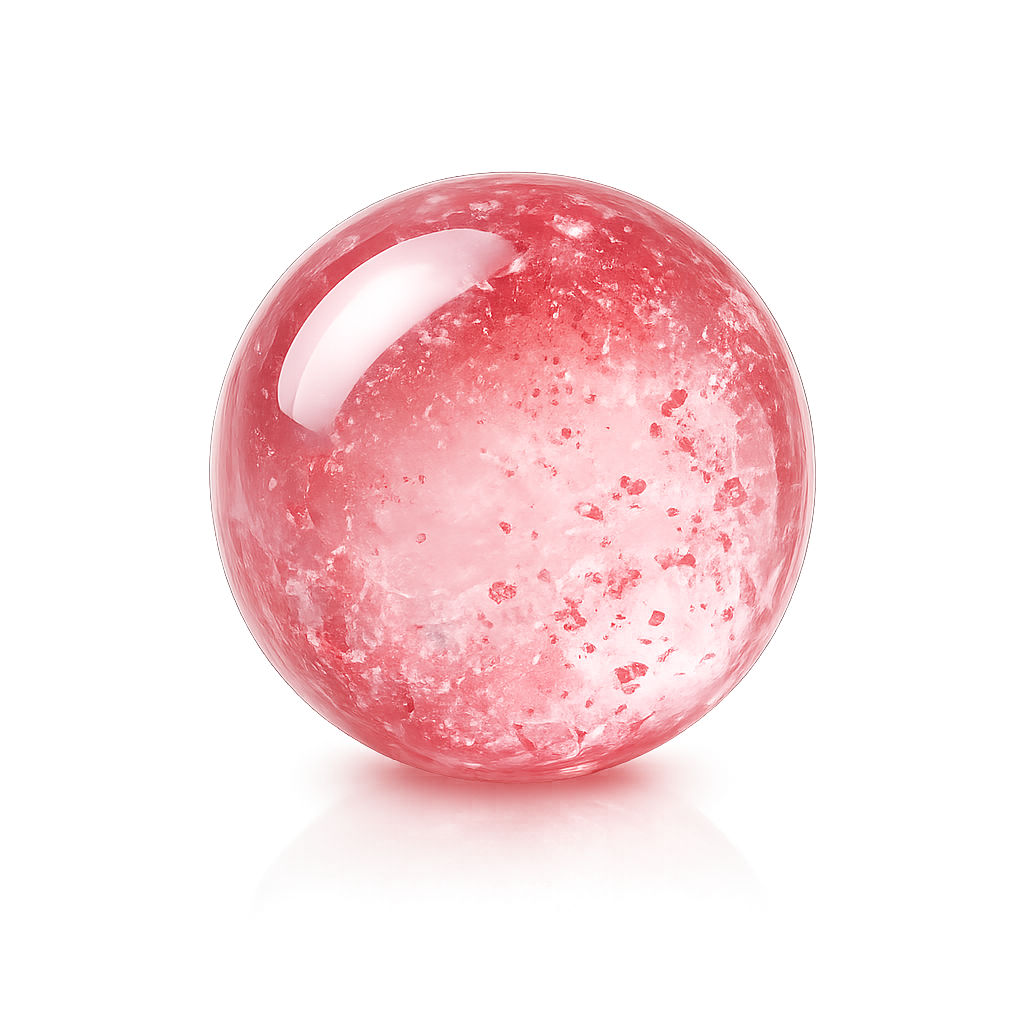
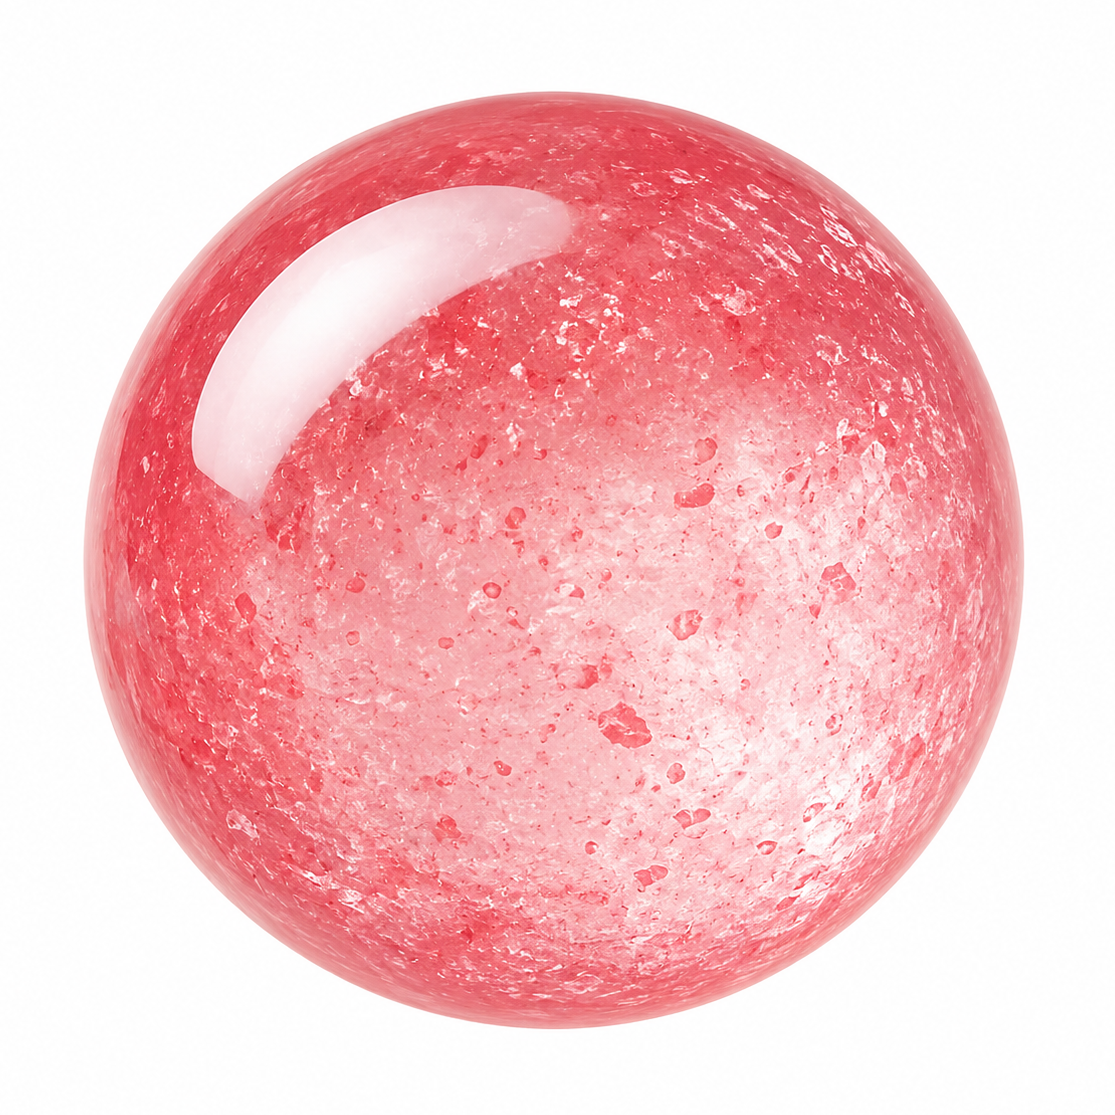
Fix charm slot behavior and update assets

diff --git a/app.js b/app.js
@@ -975,15 +975,8 @@ function renderStep2() {
 }
 
 function initCharmSelection() {
-  if (!DOM.charmSectionMount) return;
-
-  DOM.charmSectionMount.addEventListener('click', (event) => {
-    const button = event.target.closest('[data-charm-id]');
-    if (!button || button.disabled) return;
-
-    const nextCharmId = button.dataset.charmId || null;
-    applySelectedCharm(nextCharmId);
-  });
+  // Charm cards attach their own click handlers when rendered.
+  // Avoid duplicate selection by not binding a second delegated listener here.
 }
 
 function formatDisplayPrice(value) {
@@ -1330,15 +1323,16 @@ function applySelectedCharm(charmId) {
     return;
   }
 
-  if (currentCharmIds.length >= 2) {
-    showToast("You can select up to 2 charms.");
-    return;
-  }
-
   const selectedCharm = getVisibleCharmCatalog().find((charm) => charm.id === nextCharmId);
   if (!selectedCharm) return;
 
-  State.selectedCharmIds = [...currentCharmIds, nextCharmId];
+  if (currentCharmIds.length === 0) {
+    State.selectedCharmIds = [nextCharmId];
+  } else if (currentCharmIds.length === 1) {
+    State.selectedCharmIds = [currentCharmIds[0], nextCharmId];
+  } else {
+    State.selectedCharmIds = [currentCharmIds[0], nextCharmId];
+  }
   syncSelectedCharmState();
   adjustBeadsToNewCapacity();
   saveState();
